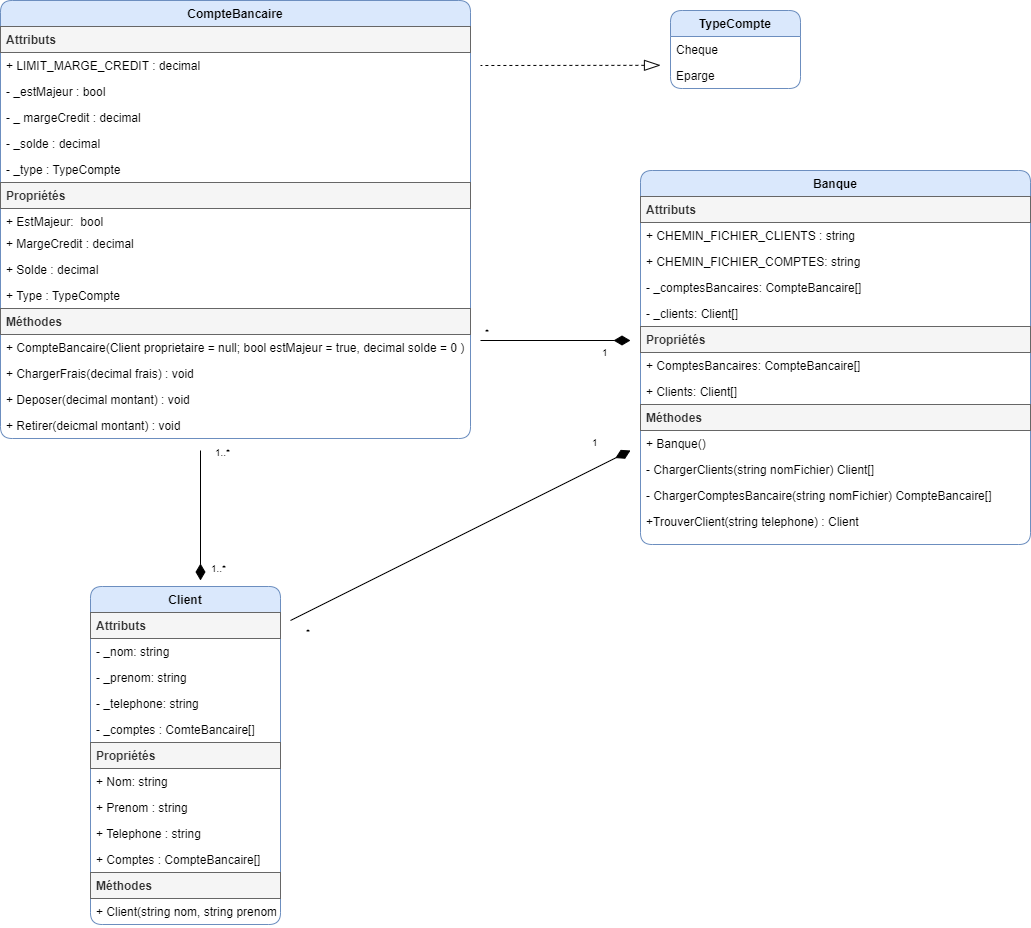
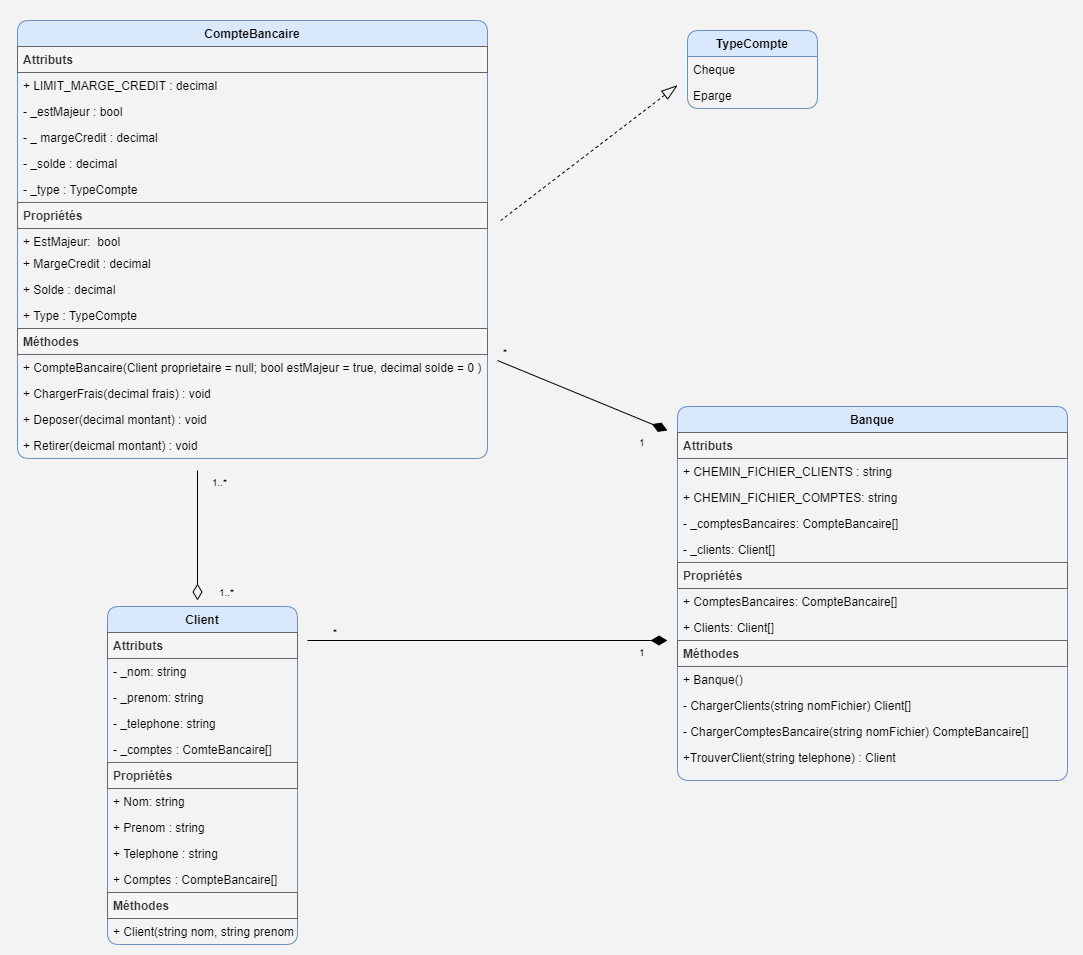
fix ExempleBanque.png + add bloc-note.xml

diff --git a/.vitepress/config.js b/.vitepress/config.js
@@ -37,7 +37,8 @@ export default defineConfig({
         text: 'En vrac',
         items: [
           { text: 'Convention de nommage', link: '/convention' },
-          { text: 'UtilEnum.cs', link: 'https://gitlab.com/420-14b-fx/contenu/-/raw/main/en_vrac/UtilEnum.cs?ref_type=heads&inline=false'}
+          { text: 'UtilEnum.cs', link: 'https://gitlab.com/420-14b-fx/contenu/-/raw/main/en_vrac/UtilEnum.cs?ref_type=heads&inline=false'},
+          { text: 'Bloc-note.xml', link: 'https://gitlab.com/420-14b-fx/contenu/-/raw/main/en_vrac/Bloc-notes.xml?ref_type=heads&inline=false' },
         ]
       },
       /*{
